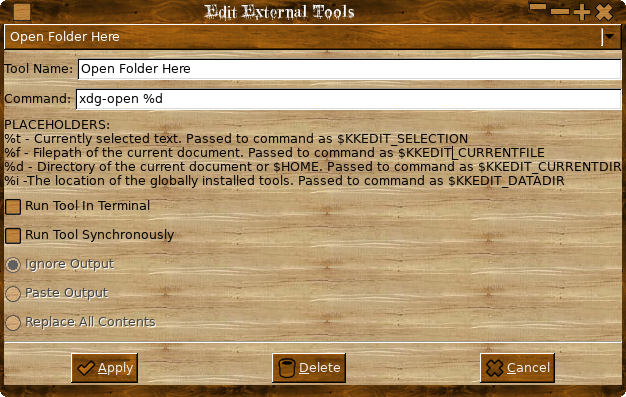
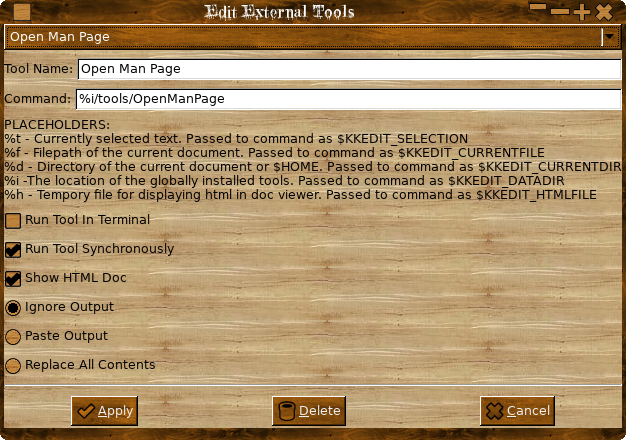
git-svn-id: file:///media/LinuxData/Development/SVN/KKEdit@284 923dfa19-3233-4c9e-86b8-84ae44b222e5

diff --git a/KKEdit/resources/help/help.html b/KKEdit/resources/help/help.html
@@ -140,7 +140,7 @@
         ie to open a terminal with the working directory set to the
         folder where the current file is open:</font><br>
       <br>
-      <img alt="openterm" src="toolsmenu.png" height="273" width="681"><br>
+      <img alt="openterm" src="toolsmenu.png" height="264" width="638"><br>
       <br>
       <font size="-1">External tools can either be added globally to
         /usr/share/KKEdit/tools (if you have installed with
@@ -152,11 +152,14 @@
         size="-1"><br>
         KKEDIT_DATADIR - Directory of global folder ( eg
         /usr/share/KKEdit ). <br>
+      </font><font size="-1">KKEDIT_HTMLFILE</font><font size="-1">-
+        Tempory file for displaying html in doc viewer<br>
+        <br>
         More variables may be defined later.<br>
         External tools can be created by hand or via the 'Tools-&gt;New'
         menu like so:</font><br>
       <br>
-      <img alt="exttool" src="newtool.png" height="397" width="626"><br>
+      <img alt="exttool" src="newtool.png" height="440" width="626"><br>
       <br>
       <font size="-1">The placeholders are:<br>
         %t - Currently selected text, the same as the $KKEDIT_SELECTION
@@ -169,7 +172,21 @@
         command. <br>
         %i -The location of the globally installed tools, the same as
         the $KKEDIT_DATADIR environment variable passed to the command .<br>
+        %h - Tempory file for displaying html in doc viewer, the same as
+        the $KKEDIT_HTMLFILE environment variable passed to the command
+        .<br>
         <br>
+        <font size="-1">Selecting <font size="-1">'Show HTML Doc' will
+            display the file </font></font></font><font size="-1"><font
+          size="-1"><font size="-1"><font size="-1">$KKEDIT_HTMLFILE in
+              either the Gtk Doc vierer or your <font size="-1">default
+                browser<font size="-1">, this is used in the installed
+                  example tool 'Open Man Page' to display the manpage of
+                  the selec<font size="-1">tion ( if it exists and if
+                    you have man2html installed<font size="-1">, most
+                      people do ).<br>
+                      <br>
+                    </font></font></font></font></font></font></font>
         Commands should be simple commands, compound commands ( ie cd
         /opt;ls;touch xx) will not be executed properly, if you need to
         use a complex command create a script and set 'command' to the
@@ -226,7 +243,7 @@
       <img alt="boomark" src="bookmark.png" height="287" width="762"><br>
       <br>
       <a name="hexdumpanc"></a><font size="-1">You can open a file as a
-        hexdump like so:</font><br>
+        hex dump like so:</font><br>
       <img alt="hexdump" src="hexdump.png" height="288" width="669"><br>
       <br>
       <a name="findapi"></a><font size="-1">You can look up an API
